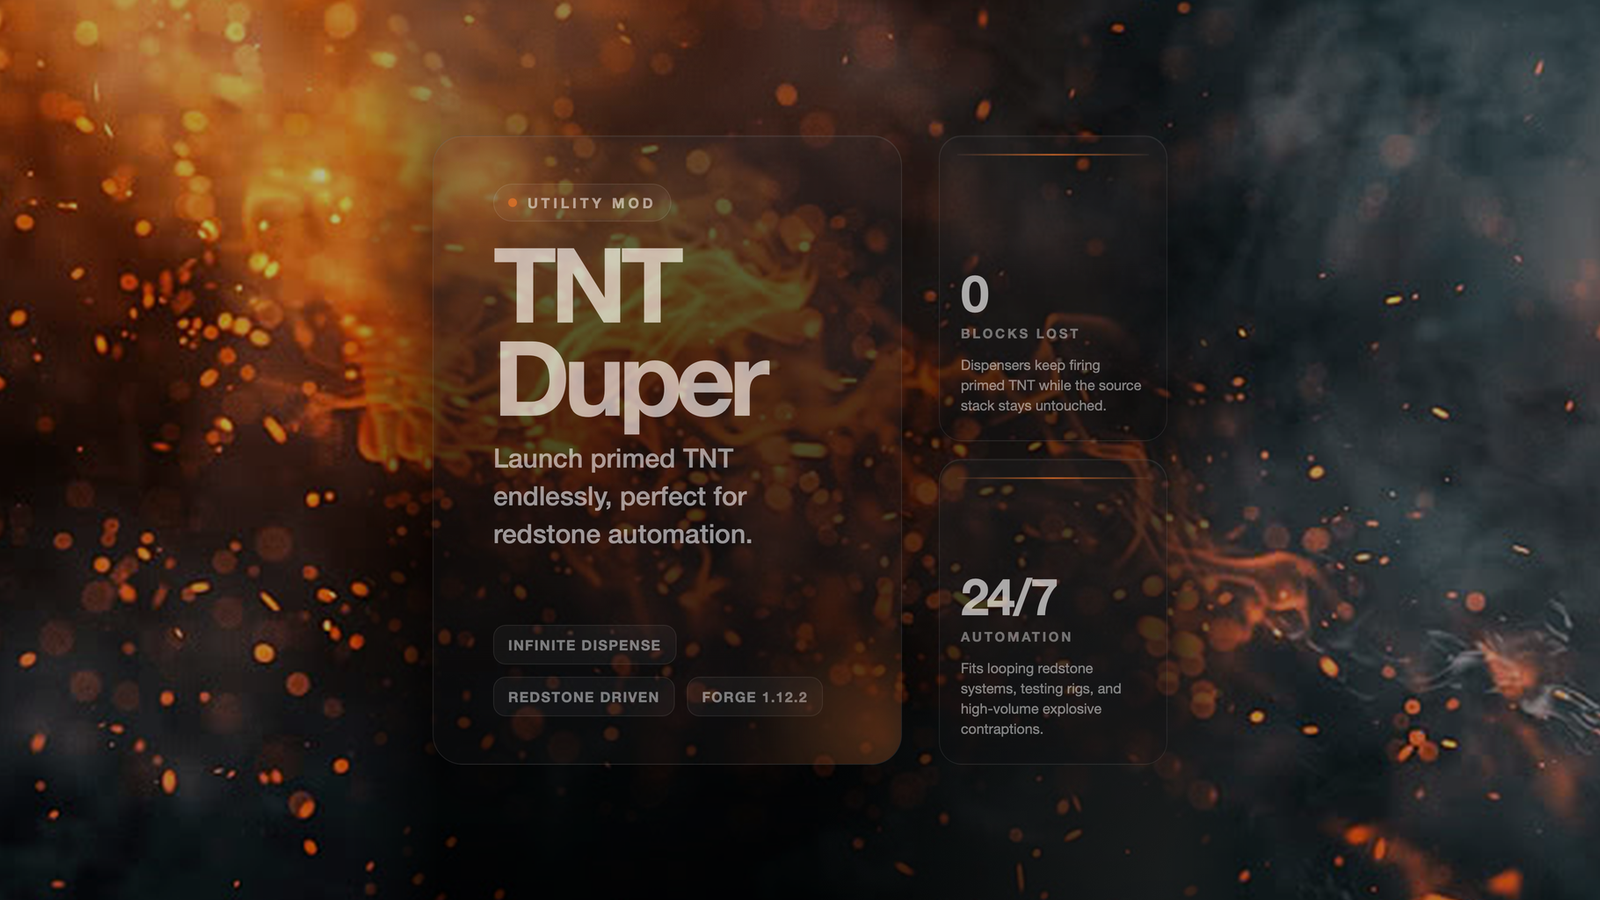
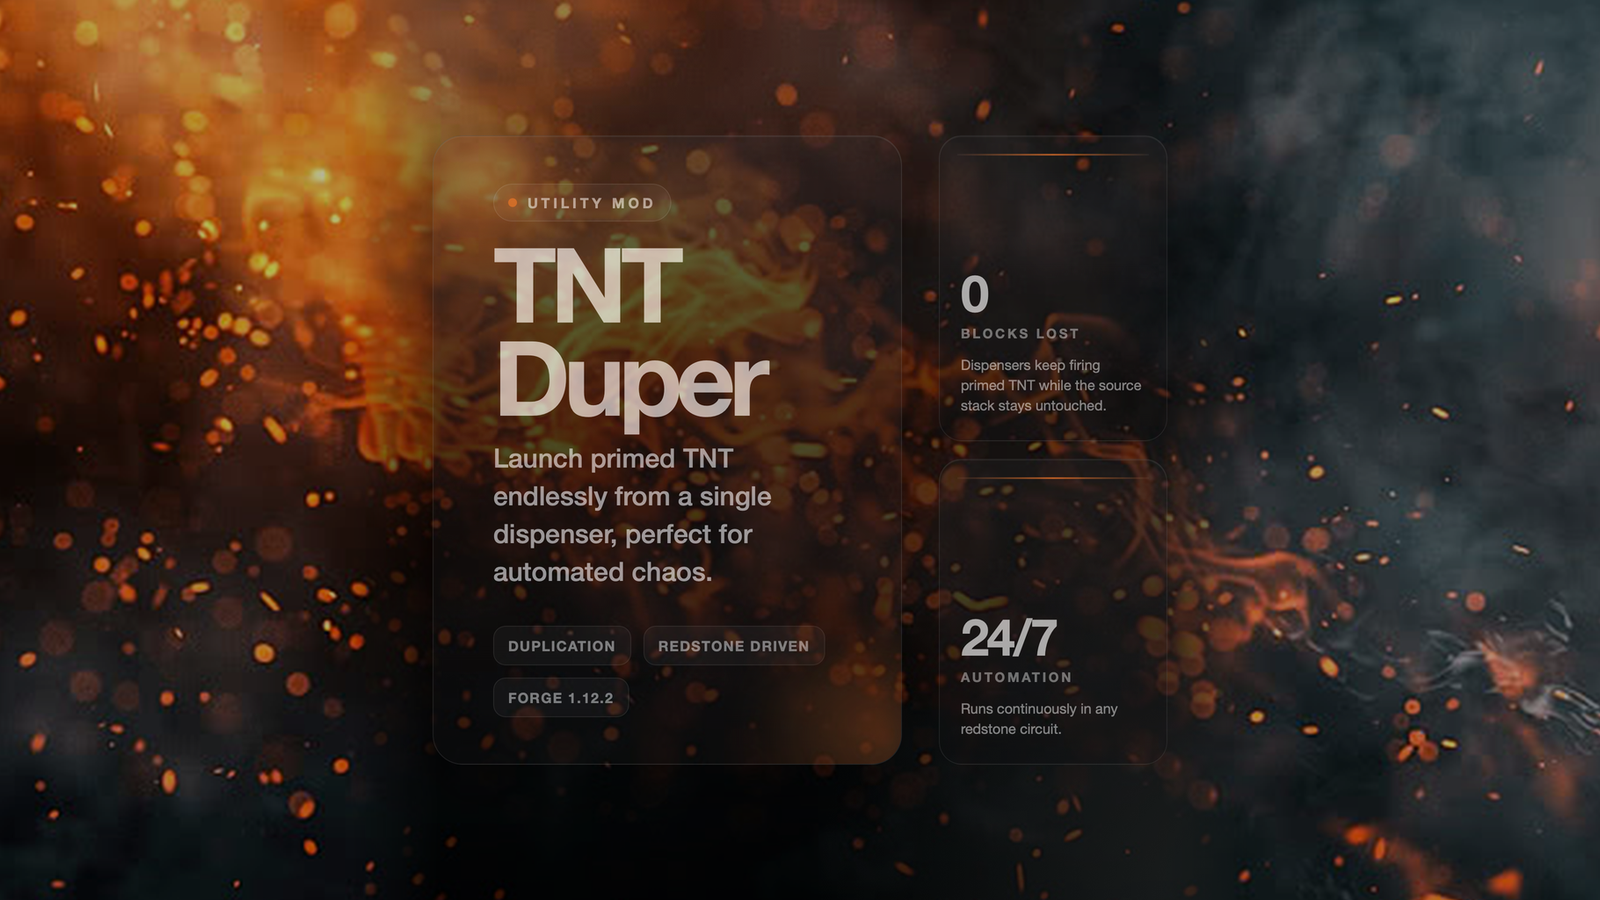
Auto-sync TNT Duper source snapshot

Changed region(s): [[0.5938, 0.6222, 0.6875, 0.84], [0.3125, 0.5289, 0.5, 0.6533], [0.3125, 0.7156, 0.5, 0.7778]]

diff --git a/docs/Home.md b/docs/Home.md
@@ -1,18 +1,20 @@
 # TNT Duper
 
+A simple mod that changes how dispensers handle TNT. When a dispenser contains TNT, it will duplicate the TNT instead of using it up, spawning a primed TNT entity each time it is activated.
+
 ## What It Does
-- Dispensers place TNT without using up the item, so you can keep dispensing TNT over and over.
-- Each duplicated TNT becomes a primed TNT entity that will explode after a short delay.
-- The spawned TNT behaves like regular TNT, so it can be ignited by players or redstone.
-- The duplication works automatically when the dispenser receives a redstone signal.
+- Dispensers with TNT duplicate the TNT without consuming it, so you can spawn primed TNT repeatedly.
+- The duplicated TNT behaves like normal TNT, including a 4‑second fuse and explosion.
+- The effect triggers automatically when the dispenser is activated (e.g., by redstone).
+- The spawned TNT can be moved, collected, or exploded just like regular TNT.
 - Dispensers can fire TNT without using up the TNT item.
-- Each duplication spawns a primed TNT entity that will explode after a short delay.
+- The duplicated TNT behaves like normal TNT, including explosion after 4 seconds.
 
 ## Quick Facts
 
 
 
-- Summary: Tired of dispensers using up your TNT? Well this mod makes dispensers fire TNT without consuming it.
+- Summary: Why look for TNT dupers when you could just build one with one dispenser and one tnt?
 
 - Loader: `forge`
 

diff --git a/docs/README.md b/docs/README.md
@@ -1,18 +1,20 @@
 # TNT Duper
 
+A simple mod that changes how dispensers handle TNT. When a dispenser contains TNT, it will duplicate the TNT instead of using it up, spawning a primed TNT entity each time it is activated.
+
 ## What It Does
-- Dispensers place TNT without using up the item, so you can keep dispensing TNT over and over.
-- Each duplicated TNT becomes a primed TNT entity that will explode after a short delay.
-- The spawned TNT behaves like regular TNT, so it can be ignited by players or redstone.
-- The duplication works automatically when the dispenser receives a redstone signal.
+- Dispensers with TNT duplicate the TNT without consuming it, so you can spawn primed TNT repeatedly.
+- The duplicated TNT behaves like normal TNT, including a 4‑second fuse and explosion.
+- The effect triggers automatically when the dispenser is activated (e.g., by redstone).
+- The spawned TNT can be moved, collected, or exploded just like regular TNT.
 - Dispensers can fire TNT without using up the TNT item.
-- Each duplication spawns a primed TNT entity that will explode after a short delay.
+- The duplicated TNT behaves like normal TNT, including explosion after 4 seconds.
 
 ## Quick Facts
 
 
 
-- Summary: Tired of dispensers using up your TNT? Well this mod makes dispensers fire TNT without consuming it.
+- Summary: Why look for TNT dupers when you could just build one with one dispenser and one tnt?
 
 - Loader: `forge`
 

diff --git a/README.md b/README.md
@@ -1,12 +1,14 @@
 # TNT Duper
 
+A simple mod that changes how dispensers handle TNT. When a dispenser contains TNT, it will duplicate the TNT instead of using it up, spawning a primed TNT entity each time it is activated.
+
 ## What It Does
-- Dispensers place TNT without using up the item, so you can keep dispensing TNT over and over.
-- Each duplicated TNT becomes a primed TNT entity that will explode after a short delay.
-- The spawned TNT behaves like regular TNT, so it can be ignited by players or redstone.
-- The duplication works automatically when the dispenser receives a redstone signal.
+- Dispensers with TNT duplicate the TNT without consuming it, so you can spawn primed TNT repeatedly.
+- The duplicated TNT behaves like normal TNT, including a 4‑second fuse and explosion.
+- The effect triggers automatically when the dispenser is activated (e.g., by redstone).
+- The spawned TNT can be moved, collected, or exploded just like regular TNT.
 - Dispensers can fire TNT without using up the TNT item.
-- Each duplication spawns a primed TNT entity that will explode after a short delay.
+- The duplicated TNT behaves like normal TNT, including explosion after 4 seconds.
 
 ---
 
